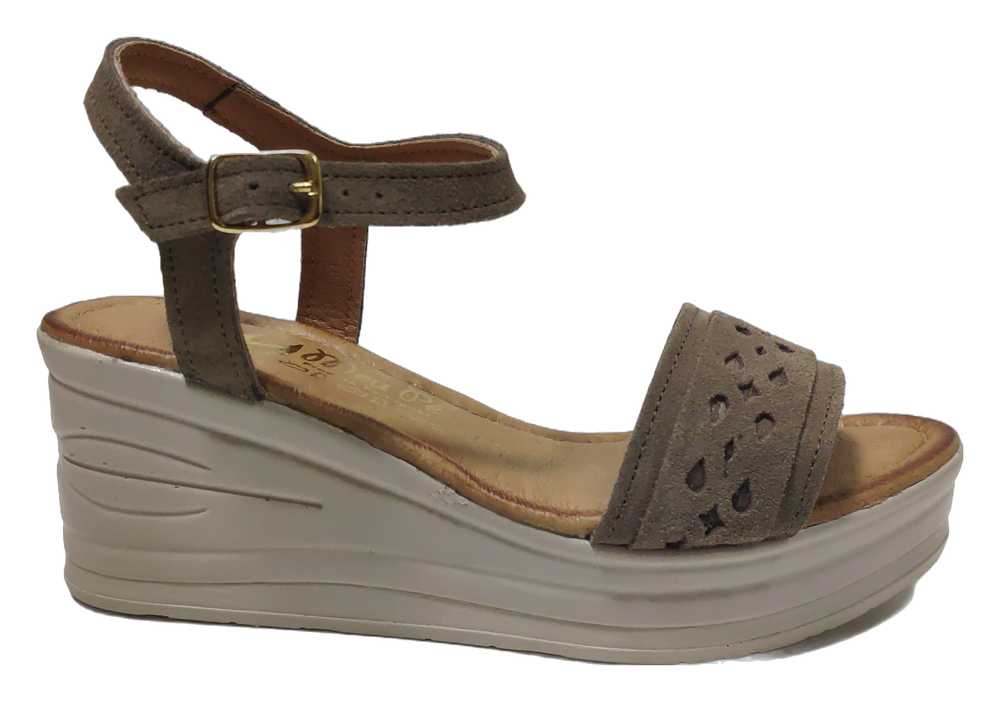
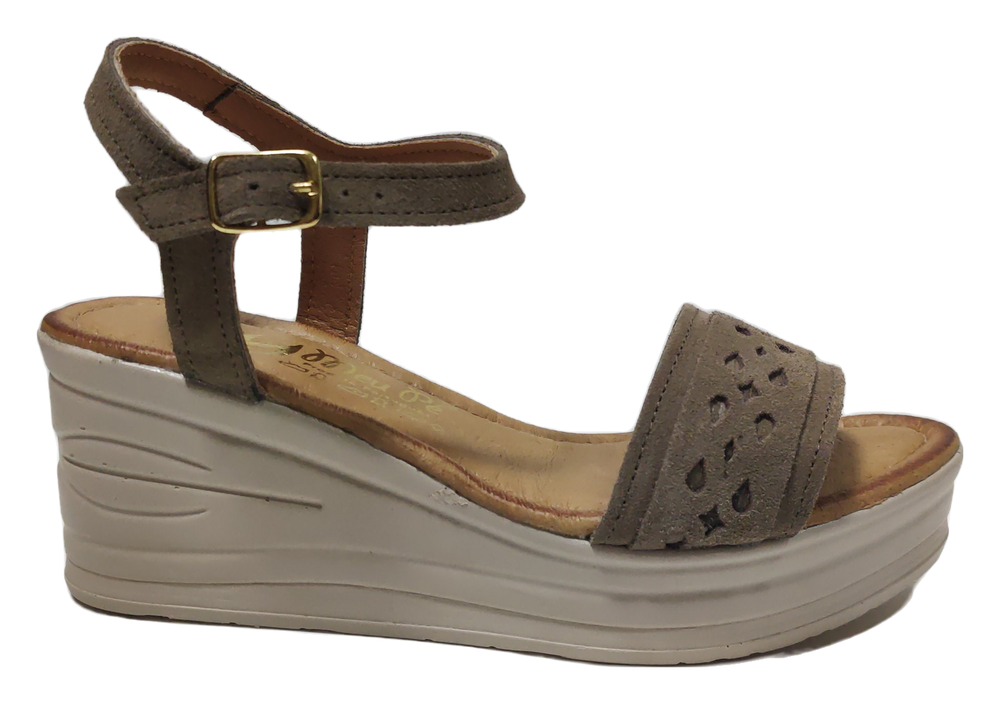
2060: correia branca completa (junta os recortes isnet e u2net só para este modelo)
Na foto nova, a ponta da correia branca está à frente da parede branca e o recorte normal roía-a.

Claude-Session: https://claude.ai/code/session_01B3DnFGtgrKXUtky3rp3Gy7

diff --git a/ferramentas/converter_fotos.py b/ferramentas/converter_fotos.py
@@ -41,6 +41,8 @@ MODELO_POR_REF = {
     "2703": "u2net",
     "3521": "u2net",
     "3521C": "u2net",
+    # partes brancas encostadas à parede branca (ex.: ponta da correia): junta os dois recortes
+    "2060": "isnet-general-use+u2net",
 }
 
 
@@ -70,6 +72,19 @@ def recuperar_sola(original: Image.Image, cortada: Image.Image, escuro_max=70, p
     m = m.point(lambda v: 0 if v <= 70 else 255 if v >= 190 else int((v - 70) * 255 / 120))
     cortada.putalpha(m.filter(ImageFilter.GaussianBlur(0.8)))
     return cortada
+
+
+def juntar_recortes(original: Image.Image, recortes) -> Image.Image:
+    """Junta vários recortes: fica sapato o que qualquer um deles achar que é sapato.
+
+    Útil quando uma parte branca do sapato está à frente da parede branca e um dos recortes a "rói"."""
+    a = recortes[0].getchannel("A")
+    for r in recortes[1:]:
+        a = ImageChops.lighter(a, r.getchannel("A"))
+    a = a.point(lambda v: 0 if v <= 70 else 255 if v >= 190 else int((v - 70) * 255 / 120))
+    resultado = original.convert("RGBA")
+    resultado.putalpha(a.filter(ImageFilter.GaussianBlur(0.8)))
+    return resultado
 
 
 def recortar(img: Image.Image) -> Image.Image:
@@ -120,14 +135,17 @@ def main():
             ignorados += 1
             continue
         modelo = MODELO_POR_REF.get(ref, MODELO)
-        if modelo not in sessoes:
-            sessoes[modelo] = new_session(modelo)
-        sessao = sessoes[modelo]
+        for m in modelo.split("+"):
+            if m not in sessoes:
+                sessoes[m] = new_session(m)
         img = ImageOps.exif_transpose(Image.open(f)).convert("RGB")
         img.thumbnail((ENTRADA_MAX, ENTRADA_MAX), Image.LANCZOS)
-        cortada = remove(img, session=sessao)
-        if ref in MODELO_POR_REF:
-            cortada = recuperar_sola(img, cortada)
+        if "+" in modelo:
+            cortada = juntar_recortes(img, [remove(img, session=sessoes[m]) for m in modelo.split("+")])
+        else:
+            cortada = remove(img, session=sessoes[modelo])
+            if modelo != MODELO:
+                cortada = recuperar_sola(img, cortada)
         img = recortar(cortada)
         img.thumbnail((LARGURA_MAX, LARGURA_MAX), Image.LANCZOS)
         saida.parent.mkdir(parents=True, exist_ok=True)
